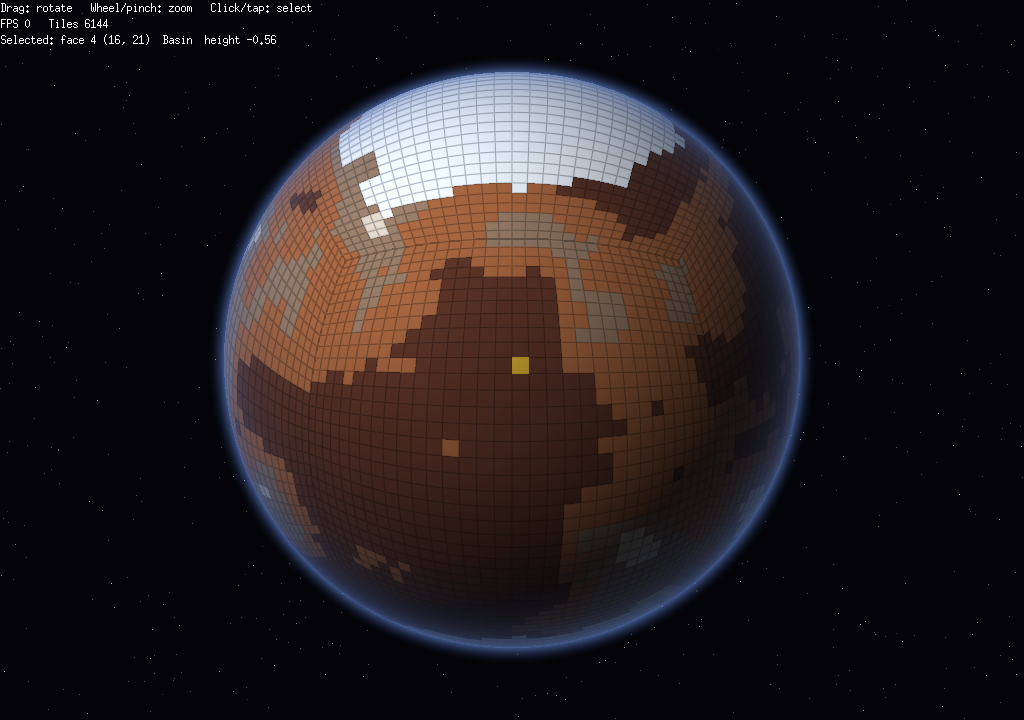
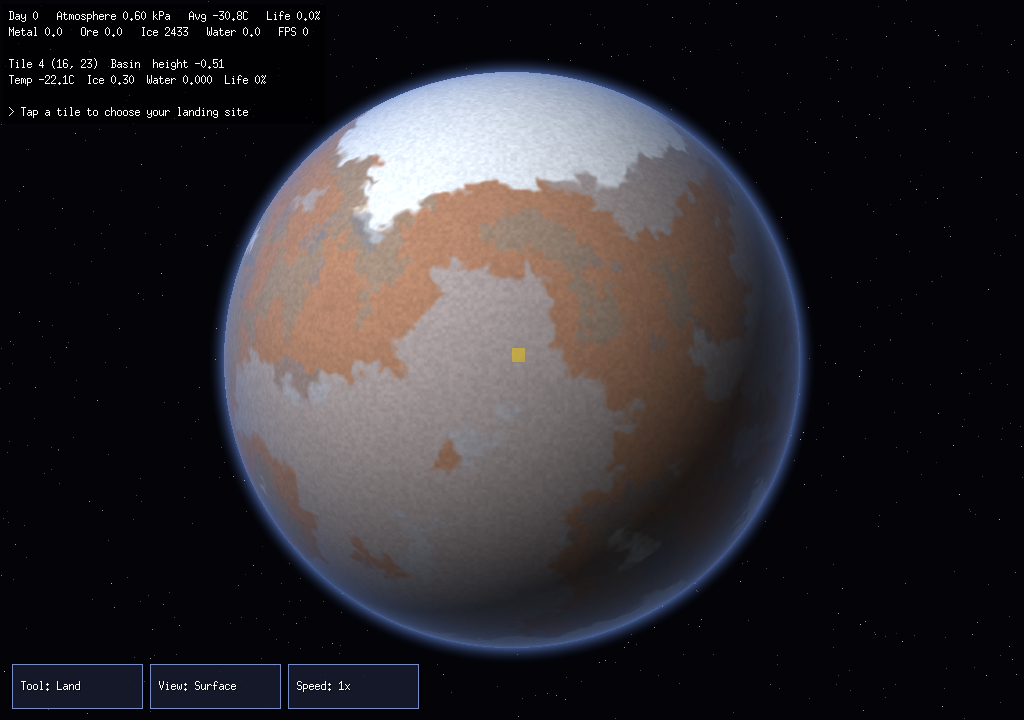
Hide the cube: smooth, noisy terrain and local grid lines
- Atlas now pads each face with a one-tile border copied from the
  neighbouring faces (new sim.Grid.Wrap, also used by Neighbors), so
  the shader can blend tile colours across seams.
- Shader blends the four nearest tiles, warps the lookup with 3D
  planet-space noise so region edges wander organically, and adds fine
  surface texture; all continuous across cube seams.
- Grid lines are drawn only in a small patch around the tapped tile
  while a build, link or demolish tool is active, so the cube layout
  never shows on the whole planet.

Claude-Session: https://claude.ai/code/session_01Tsa7NWTFAXJFeYNhAWDLwZ

diff --git a/game/palette.go b/game/palette.go
@@ -58,27 +58,53 @@ var (
 	greyColor  = rgb{70, 70, 75}
 )
 
-// fillAtlas writes the planet into pix, the RGBA pixels of the tile atlas the
-// shader reads. It is 6N×2N: 6 faces side by side, N×N pixels each, one pixel
-// per tile. The top half holds tile colours; the bottom half holds building
-// data (red: building type + 1, or 0 for none; green: activity).
-func fillAtlas(pix []byte, p *sim.Planet, v viewMode) {
-	n := p.Grid.N
-	stride := sim.Faces * n
-	clear(pix[len(pix)/2:])
-	for idx, t := range p.Tiles {
-		c := p.Grid.CellAt(idx)
-		off := (c.J*stride + c.Face*n + c.I) * 4
-		col := tileColor(t, v)
-		pix[off] = uint8(col[0])
-		pix[off+1] = uint8(col[1])
-		pix[off+2] = uint8(col[2])
-		pix[off+3] = 255
-		pix[len(pix)/2+off+3] = 255
+// The tile atlas the shader reads is (6·P)×(2·P) pixels, where P = N+2: one
+// P×P block per cube face, side by side. Each block holds the face's N×N
+// tiles plus a one-tile border copied from the neighbouring faces, so the
+// shader can blend colours smoothly across face seams. The top half holds
+// tile colours; the bottom half holds building data (red: building type + 1,
+// or 0 for none; green: activity).
+
+// atlasSources maps each pixel in the top half of the atlas to the tile whose
+// colour it shows.
+func atlasSources(g sim.Grid) []int32 {
+	n := g.N
+	p := n + 2
+	src := make([]int32, sim.Faces*p*p)
+	for f := range sim.Faces {
+		for j := -1; j <= n; j++ {
+			for i := -1; i <= n; i++ {
+				src[(j+1)*sim.Faces*p+f*p+i+1] = int32(g.Index(g.Wrap(f, i, j)))
+			}
+		}
 	}
+	return src
+}
+
+// fillAtlas writes the planet into pix, the atlas's RGBA pixels, using src
+// from atlasSources.
+func fillAtlas(pix []byte, src []int32, p *sim.Planet, v viewMode) {
+	half := len(pix) / 2
+	colors := make([]rgb, len(p.Tiles))
+	for idx, t := range p.Tiles {
+		colors[idx] = tileColor(t, v)
+	}
+	for k, idx := range src {
+		col := colors[idx]
+		pix[k*4] = uint8(col[0])
+		pix[k*4+1] = uint8(col[1])
+		pix[k*4+2] = uint8(col[2])
+		pix[k*4+3] = 255
+	}
+	clear(pix[half:])
+	for k := 3; k < half; k += 4 {
+		pix[half+k] = 255
+	}
+	n := p.Grid.N
+	stride := sim.Faces * (n + 2)
 	for _, b := range p.Buildings() {
 		c := p.Grid.CellAt(b.Tile)
-		off := len(pix)/2 + (c.J*stride+c.Face*n+c.I)*4
+		off := half + ((c.J+1)*stride+c.Face*(n+2)+c.I+1)*4
 		pix[off] = uint8(b.Type) + 1
 		pix[off+1] = uint8(b.Activity * 255)
 	}

diff --git a/game/game.go b/game/game.go
@@ -62,6 +62,7 @@ type Game struct {
 
 	atlas      *ebiten.Image
 	atlasPix   []byte
+	atlasSrc   []int32 // tile shown by each atlas colour pixel
 	atlasDirty bool
 
 	hud, label *ebiten.Image
@@ -96,8 +97,9 @@ func New(opts Options) (*Game, error) {
 		opts:       opts,
 		planet:     p,
 		shader:     shader,
-		atlas:      ebiten.NewImage(sim.Faces*n, 2*n),
-		atlasPix:   make([]byte, sim.Faces*n*2*n*4),
+		atlas:      ebiten.NewImage(sim.Faces*(n+2), 2*(n+2)),
+		atlasPix:   make([]byte, sim.Faces*(n+2)*2*(n+2)*4),
+		atlasSrc:   atlasSources(p.Grid),
 		atlasDirty: true,
 		cam:        newCamera(),
 		speed:      1,
@@ -281,7 +283,7 @@ func (g *Game) selectAt(x, y float64) {
 func (g *Game) Draw(screen *ebiten.Image) {
 	g.layoutCamera()
 	if g.atlasDirty {
-		fillAtlas(g.atlasPix, g.planet, g.view)
+		fillAtlas(g.atlasPix, g.atlasSrc, g.planet, g.view)
 		g.atlas.WritePixels(g.atlasPix)
 		g.atlasDirty = false
 	}
@@ -315,6 +317,10 @@ func (g *Game) drawPlanet(screen *ebiten.Image) {
 	if c := g.highlighted(); c != nil {
 		sel = []float32{float32(c.Face), float32(c.I), float32(c.J)}
 	}
+	gridAt := []float32{0, 0, 0}
+	if c := g.highlighted(); c != nil {
+		gridAt = vec3f(g.planet.Grid.DirFromCell(*c))
+	}
 	op := &ebiten.DrawTrianglesShaderOptions{}
 	op.Images[0] = g.atlas
 	op.Uniforms = map[string]any{
@@ -327,6 +333,8 @@ func (g *Game) drawPlanet(screen *ebiten.Image) {
 		"Selected": sel,
 		"Time":     float32(g.ticks) / float32(ebiten.TPS()),
 		"Light":    vec3f(lightDir),
+		"Grid":     float32(g.gridAmount()),
+		"GridAt":   gridAt,
 	}
 	screen.DrawTrianglesShader(vs, []uint16{0, 1, 2, 1, 2, 3}, g.shader, op)
 }
@@ -338,6 +346,16 @@ func (g *Game) highlighted() *sim.Cell {
 		return g.linkFrom
 	}
 	return g.selected
+}
+
+// gridAmount is how strongly to draw tile grid lines: only while a tool that
+// places or targets individual tiles is in use, and there's a tapped tile to
+// centre them on.
+func (g *Game) gridAmount() float64 {
+	if g.tool == toolInspect || g.tool == toolLand || g.highlighted() == nil {
+		return 0
+	}
+	return 1
 }
 
 // drawLinks draws each link as a line hugging the planet's surface, hiding

diff --git a/sim/grid.go b/sim/grid.go
@@ -76,23 +76,27 @@ func (g Grid) DirFromCell(c Cell) Vec3 {
 }
 
 // Neighbors returns the four cells sharing an edge with c, in the order
-// +I, -I, +J, -J. Across a face seam, the neighbour is found by stepping one
-// cell past the edge on c's face plane and projecting that point back onto
-// the cube, which lands in the adjoining cell of the next face.
+// +I, -I, +J, -J.
 func (g Grid) Neighbors(c Cell) [4]Cell {
 	steps := [4][2]int{{1, 0}, {-1, 0}, {0, 1}, {0, -1}}
 	var out [4]Cell
 	for k, s := range steps {
-		i, j := c.I+s[0], c.J+s[1]
-		if i >= 0 && i < g.N && j >= 0 && j < g.N {
-			out[k] = Cell{Face: c.Face, I: i, J: j}
-			continue
-		}
-		u := (float64(i)+0.5)/float64(g.N)*2 - 1
-		v := (float64(j)+0.5)/float64(g.N)*2 - 1
-		out[k] = g.CellFromDir(dirFromFaceUV(c.Face, u, v))
+		out[k] = g.Wrap(c.Face, c.I+s[0], c.J+s[1])
 	}
 	return out
+}
+
+// Wrap returns the cell at column i, row j of face, where i and j may run up
+// to a cell past the face's edges. Off the edge, it steps past the edge on
+// the face's plane and projects that point back onto the cube, which lands
+// in the adjoining cell of the next face.
+func (g Grid) Wrap(face, i, j int) Cell {
+	if i >= 0 && i < g.N && j >= 0 && j < g.N {
+		return Cell{Face: face, I: i, J: j}
+	}
+	u := (float64(i)+0.5)/float64(g.N)*2 - 1
+	v := (float64(j)+0.5)/float64(g.N)*2 - 1
+	return g.CellFromDir(dirFromFaceUV(face, u, v))
 }
 
 func (g Grid) coord(t float64) int {

diff --git a/README.md b/README.md
@@ -12,7 +12,10 @@ shape a barren planet until life takes hold. See
 
 - A procedurally generated cube-sphere planet (6 × 32 × 32 tiles by default),
   rendered as a 2D "shader globe": one screen quad and a Kage shader that
-  ray-traces the sphere and looks each pixel up in a tile atlas.
+  ray-traces the sphere and looks each pixel up in a tile atlas. Tile colours
+  are blended smoothly and broken up with noise, so the planet looks natural
+  rather than like a cube of squares; a tile grid appears only around the
+  tapped tile while a build, link or demolish tool is active.
 - A running climate simulation: temperature by latitude, greenhouse effect,
   heat spreading between tiles, ice melting and freezing, water flowing
   downhill, and microbes appearing and spreading where it's warm, wet and
